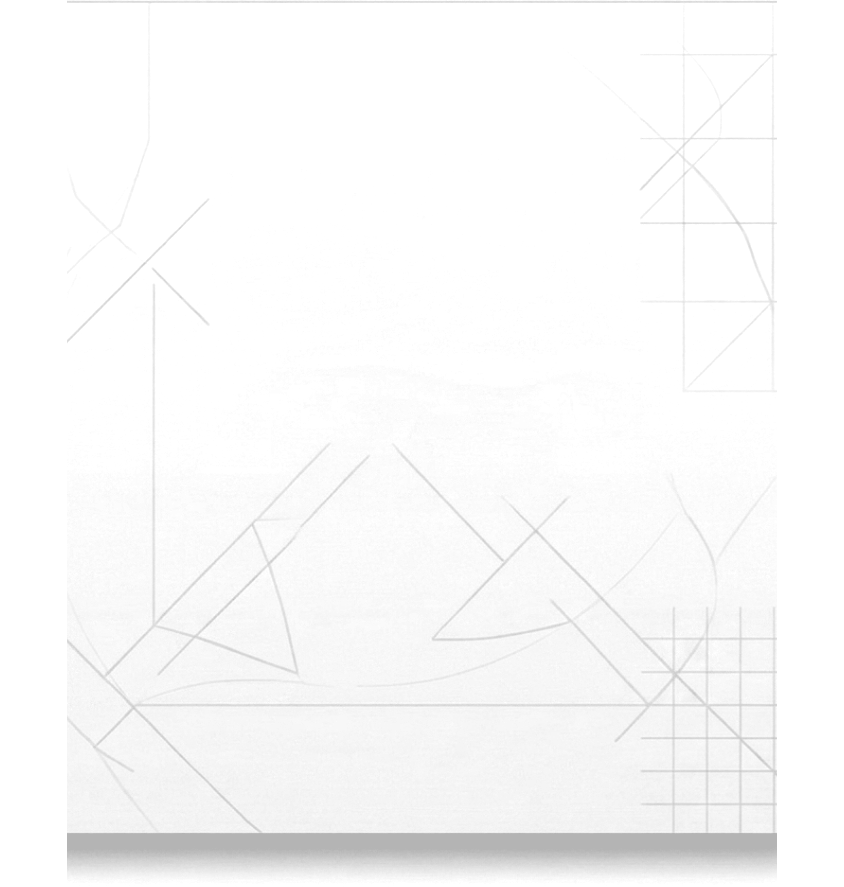
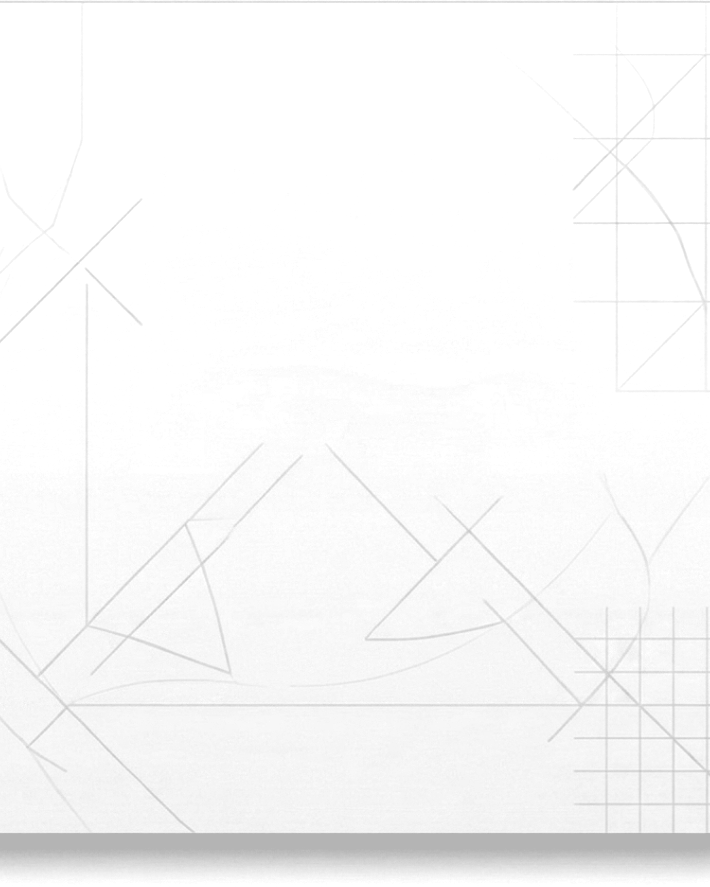
Fix login: crop lines image to fill card width, lower shield position

diff --git a/app/src/pages/LoginPage.tsx b/app/src/pages/LoginPage.tsx
@@ -209,7 +209,7 @@ export function LoginPage() {
         <img
           src="/logo.png"
           alt="חימוש 8130"
-          className="w-44 h-auto relative z-10 -mb-10 drop-shadow-lg"
+          className="w-44 h-auto relative z-10 -mb-6 drop-shadow-lg"
         />
 
         <Card className="w-full relative overflow-hidden">